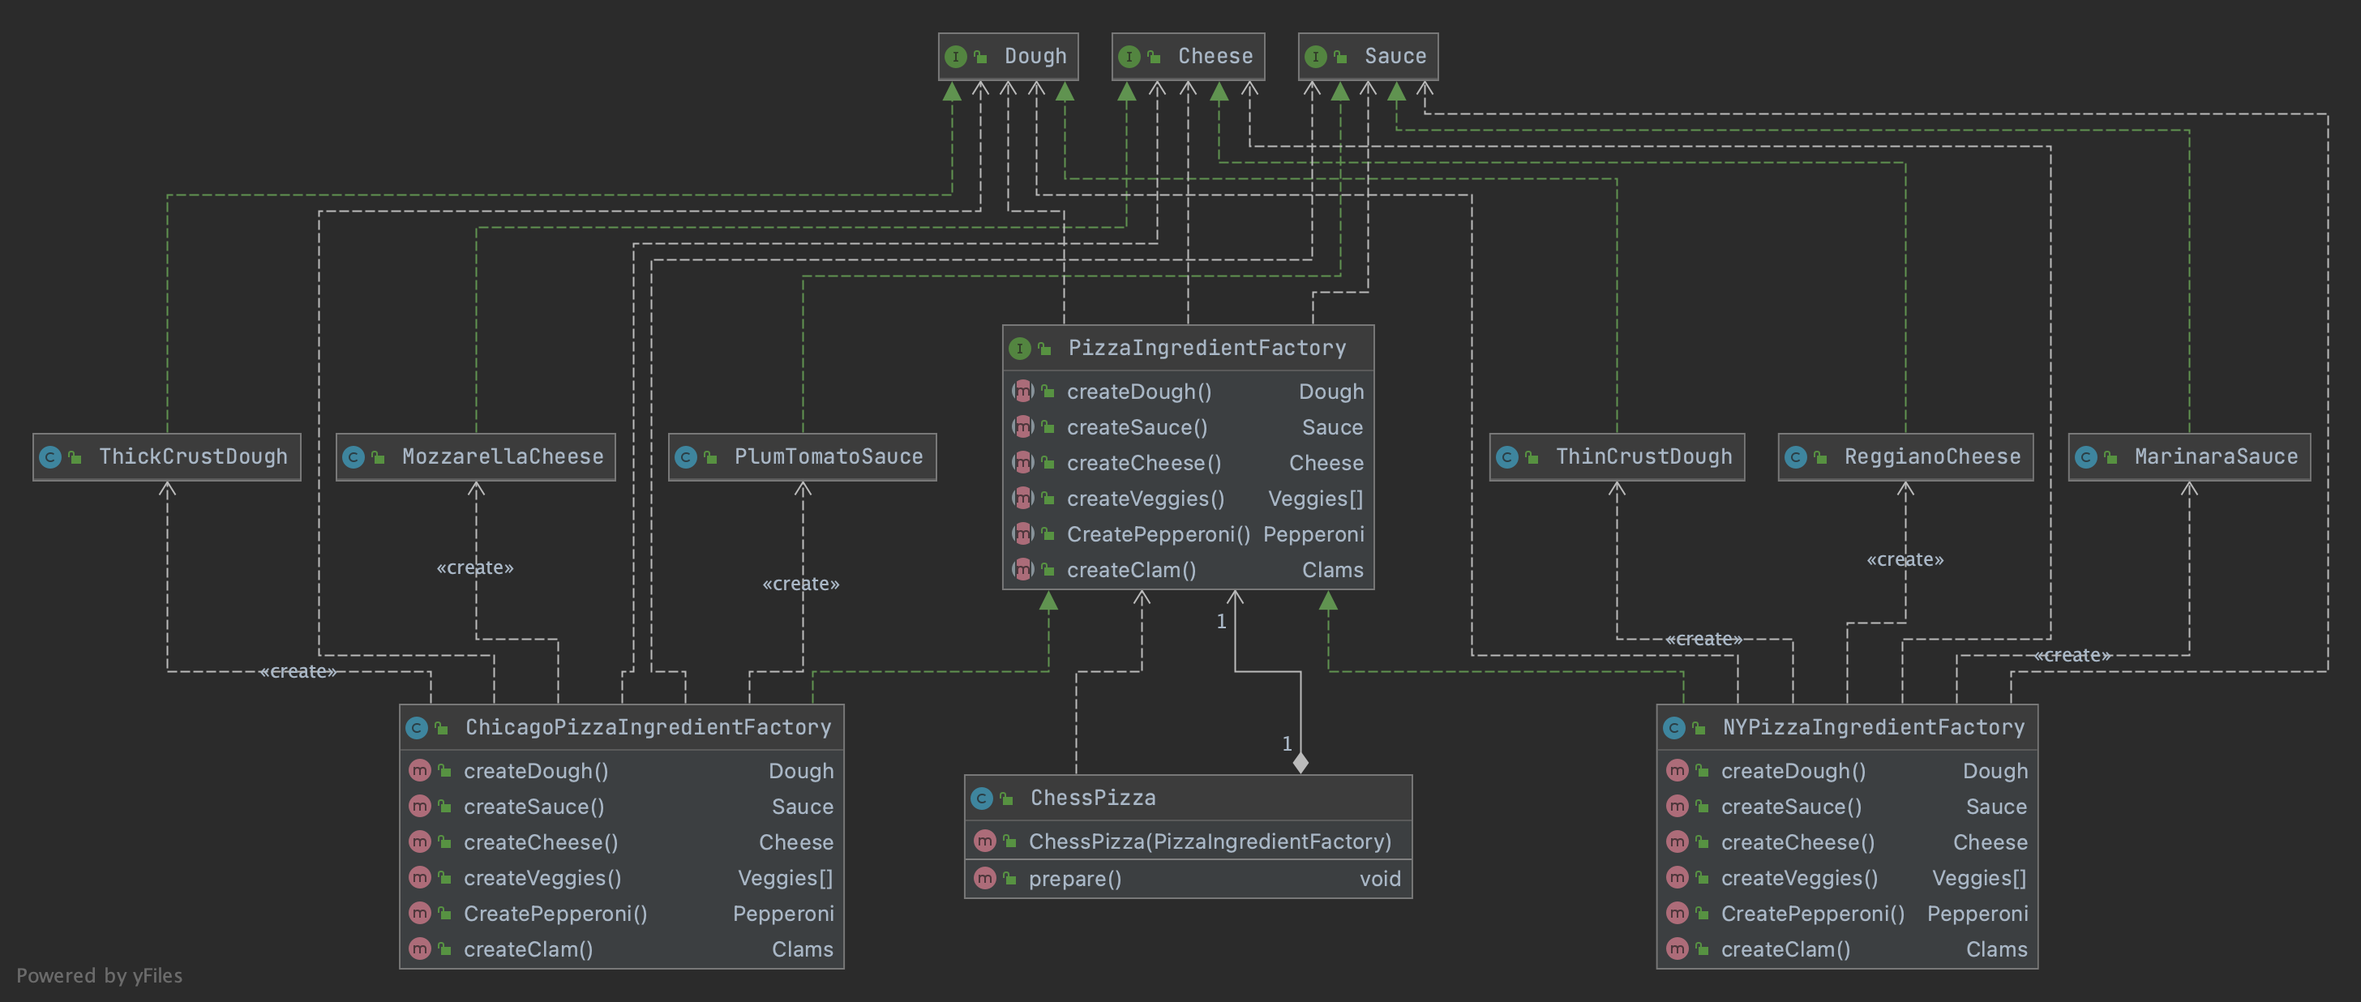
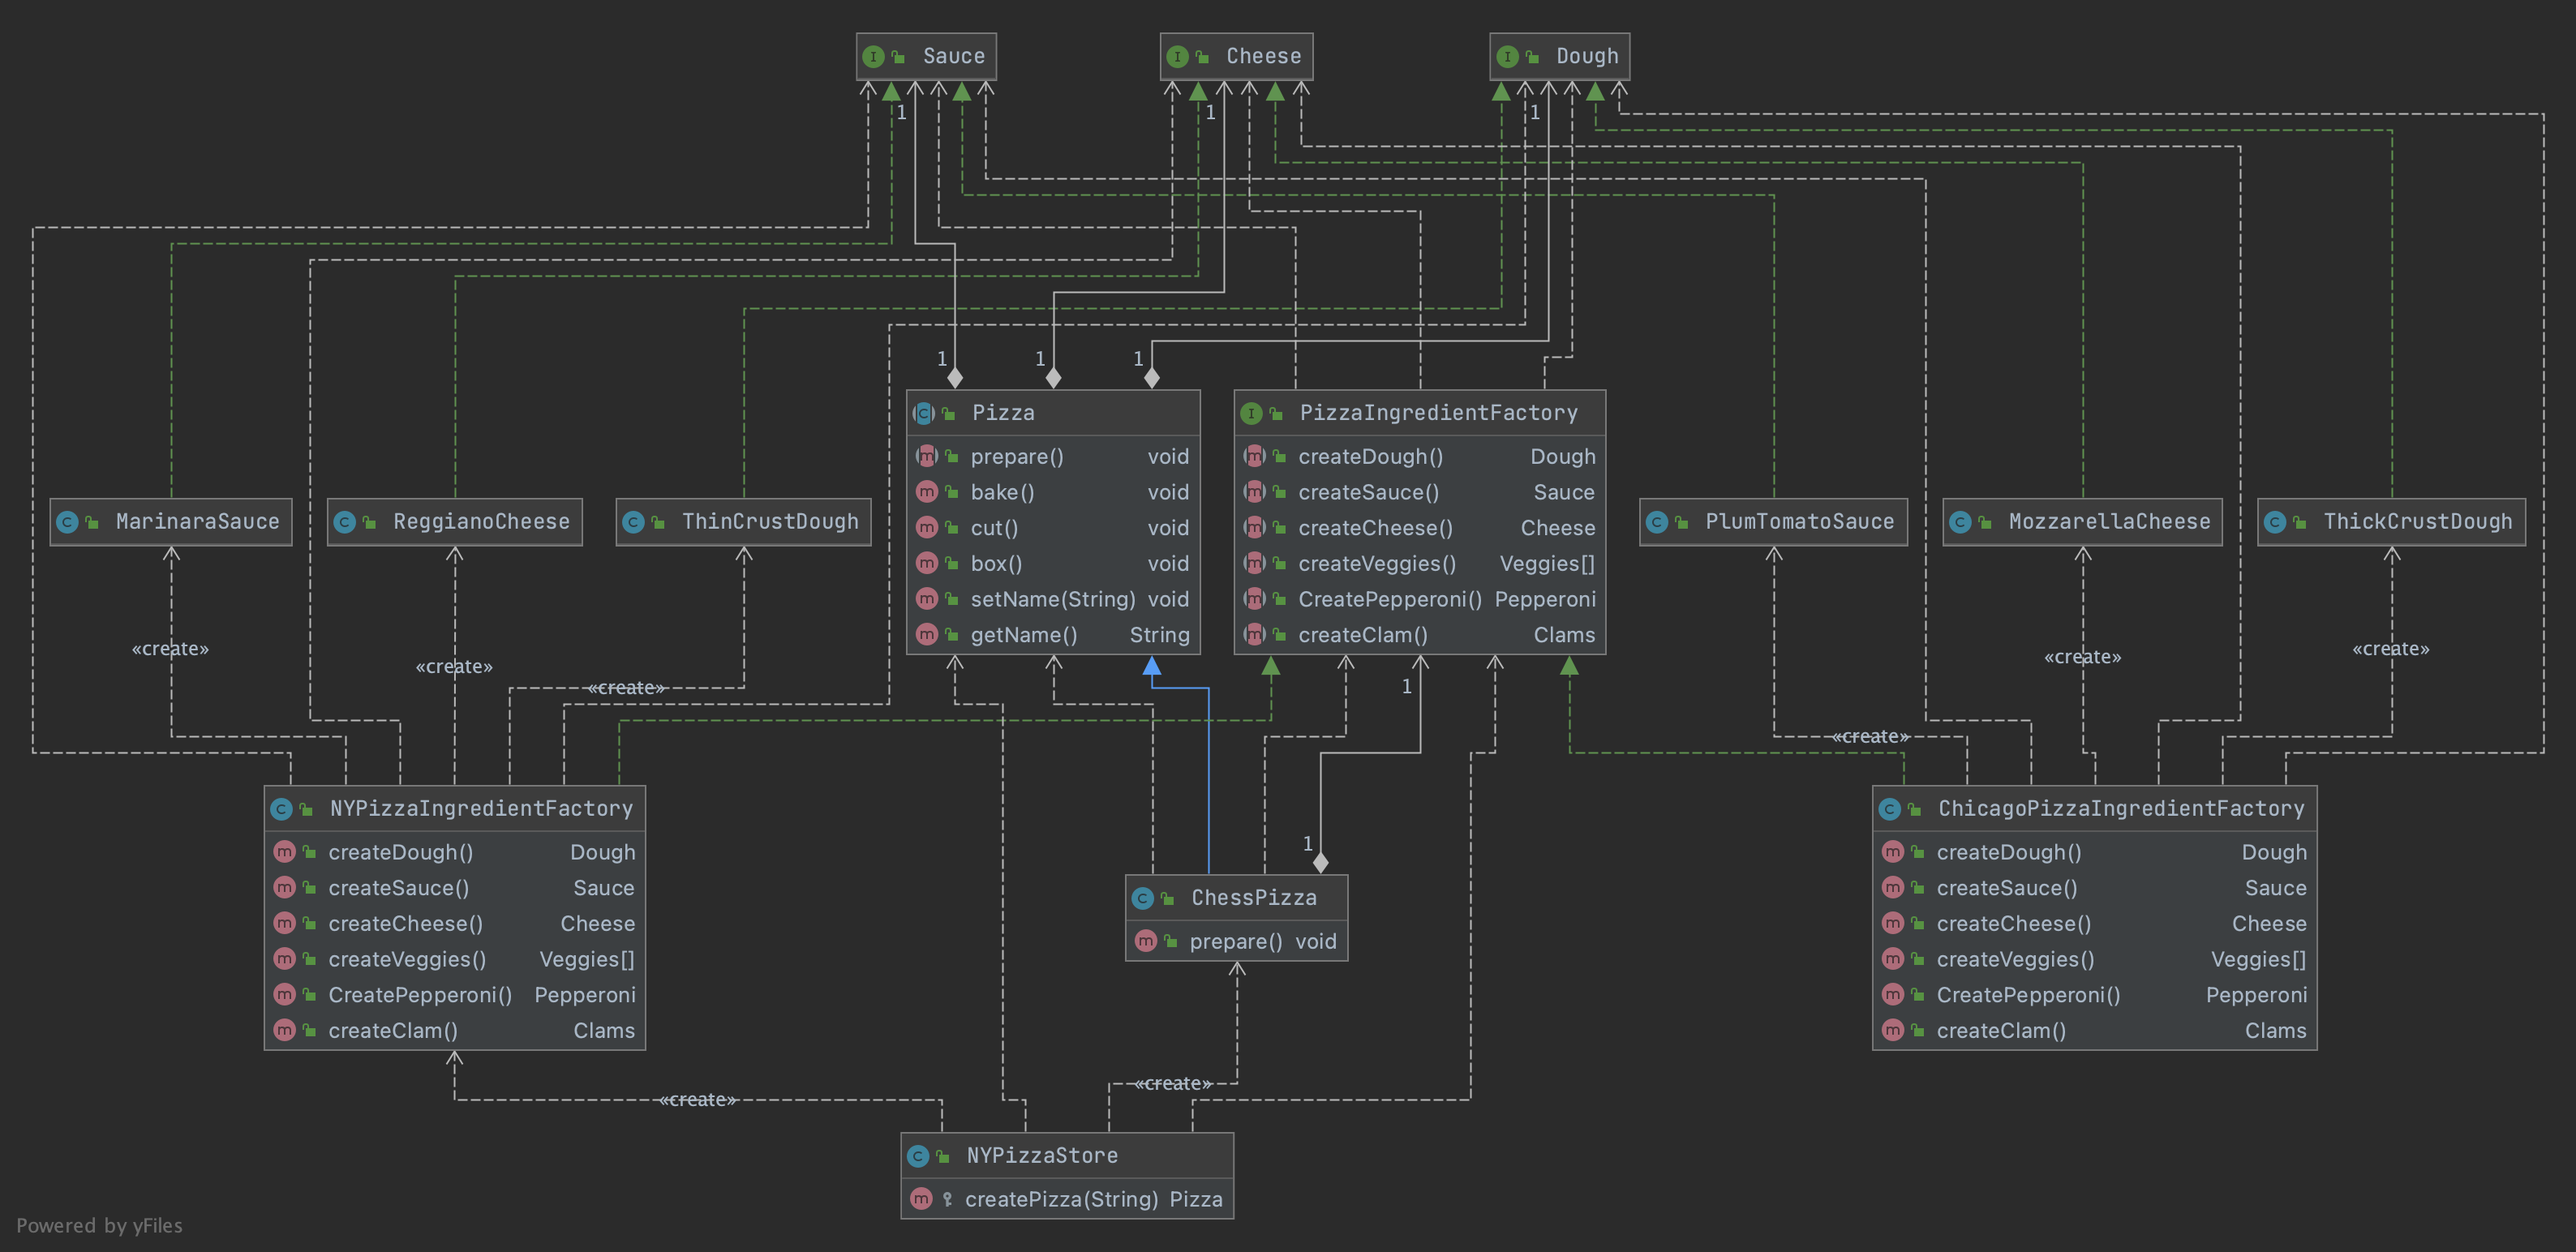
docs - ReadMe정리

diff --git a/online-learning/helloboot/src/test/java/tobyspring/study/ConfigurationTest.java b/online-learning/helloboot/src/test/java/tobyspring/study/ConfigurationTest.java
@@ -14,6 +14,7 @@ public class ConfigurationTest {
     Bean1 bean1 = myConfig.bean1();
     Bean2 bean2 = myConfig.bean2();
     Assertions.assertThat(bean1.common).isNotEqualTo(bean2.common);
+
   }
 
   @Test

diff --git a/online-learning/helloboot/[Section1] 스프링부트 살펴보기.md b/online-learning/helloboot/[Section1] 스프링부트 살펴보기.md
@@ -1,0 +1,160 @@
+# [Section1] 스프링부트 살펴보기
+
+## 스프링 부트 살펴보기
+
+### 스프링부트 소개
+
+스프링 부트(Spring Boot)는 **스프링을 기반**으로 실무 환경에 사용 가능한 수준의 **독립 실행형 애플리케이션**을 복잡한 고민없이 빠르게 작성할 수 있게 도와주는 여러가지 도구의 모음
+
+> 가장 큰 장점
+- 스프링으로 애플리케이션을 개발하지만 고민없이 빠르게 개발할 수 있게 해줌 → 결정을 다 해준 다는 것
+> 
+
+<aside>
+💡 **스프링 ≠ 스프링부트**
+부트가 스프링의 버전을 결정해 주지만 이 둘을 혼동하면 안된다.
+
+</aside>
+
+### 스프링 부트의 핵심 목표
+
+- 매우 빠르고 광범위한 영역의 스프링 개발 경험을 제공
+- 강한 주장을 가지고 즉시 적용 가능한 기술 조합을 제공하면서, 필요에 따라 원하는 방식으로 손쉽게 변형 가능
+    
+    > 빠르고 고민없이 개발할 수 있게 해준다의 다른 표현
+    부트가 구성방식을 제안하지만, 언제든 원한다면 다른 방식으로 바꿔서 사용가능
+    > 
+- 프로젝트에서 필요로 하는 다양한 비기능적인 기술(내장형 서버, 보안, 메트릭, 상태 체크, 외부 설정 방식 등) 제공
+- 코드 생성이나 XML설정을 필요로 하지 않음
+    
+    > 기존 Spring은 XML설정이 필수였음
+    > 
+
+### 스프링 부트의 역사
+
+2012년 스프링 프레임워크 프로젝트에 이슈로 등록된 “**Containerless 웹 개발 아키텍처의 지원 요청**”에서 논의와 개발 시작
+
+[https://github.com/spring-projects/spring-framework/issues/14521](https://github.com/spring-projects/spring-framework/issues/14521)
+
+- 이 이슈를 받아들여 framework를 만들기보다 boot라는 새로운 프로젝트로 개발 시작
+
+![스크린샷 2023-03-01 오후 3.51.17.png](%5BSection1%5D%20%E1%84%89%E1%85%B3%E1%84%91%E1%85%B3%E1%84%85%E1%85%B5%E1%86%BC%E1%84%87%E1%85%AE%E1%84%90%E1%85%B3%20%E1%84%89%E1%85%A1%E1%86%AF%E1%84%91%E1%85%A7%E1%84%87%E1%85%A9%E1%84%80%E1%85%B5%2058787a3dfd874d9e89582ea78060be33/%25E1%2584%2589%25E1%2585%25B3%25E1%2584%258F%25E1%2585%25B3%25E1%2584%2585%25E1%2585%25B5%25E1%2586%25AB%25E1%2584%2589%25E1%2585%25A3%25E1%2586%25BA_2023-03-01_%25E1%2584%258B%25E1%2585%25A9%25E1%2584%2592%25E1%2585%25AE_3.51.17.png)
+
+---
+
+### 컨테이너리스 개발
+
+“컨테이너 없는” 웹 어플리케이션 아키텍처란?
+
+- Serverless와 유사하다.
+- 그렇다면 Container가 무엇인가?
+    - WebContainer
+        
+        ![스크린샷 2023-03-01 오후 3.58.44.png](%5BSection1%5D%20%E1%84%89%E1%85%B3%E1%84%91%E1%85%B3%E1%84%85%E1%85%B5%E1%86%BC%E1%84%87%E1%85%AE%E1%84%90%E1%85%B3%20%E1%84%89%E1%85%A1%E1%86%AF%E1%84%91%E1%85%A7%E1%84%87%E1%85%A9%E1%84%80%E1%85%B5%2058787a3dfd874d9e89582ea78060be33/%25E1%2584%2589%25E1%2585%25B3%25E1%2584%258F%25E1%2585%25B3%25E1%2584%2585%25E1%2585%25B5%25E1%2586%25AB%25E1%2584%2589%25E1%2585%25A3%25E1%2586%25BA_2023-03-01_%25E1%2584%258B%25E1%2585%25A9%25E1%2584%2592%25E1%2585%25AE_3.58.44.png)
+        
+        - 웹컴포넌트를 관리 (웹컴포넌트를 메모리에 올리고 동작하도록 life cycle관리)
+            - 하나가 아닌 여러 개의 웹컴포넌트들을 관리한다.
+        - 요청이 들어오면 알맞은 컴포넌트에게 요청을 넘겨준다.
+            - 웹컴포넌트를 선택하는 작업 : 라우팅, 매핑(handler mapping)
+- 이를 자바용어로 바꿔보자
+    
+    ![스크린샷 2023-03-01 오후 5.24.18.png](%5BSection1%5D%20%E1%84%89%E1%85%B3%E1%84%91%E1%85%B3%E1%84%85%E1%85%B5%E1%86%BC%E1%84%87%E1%85%AE%E1%84%90%E1%85%B3%20%E1%84%89%E1%85%A1%E1%86%AF%E1%84%91%E1%85%A7%E1%84%87%E1%85%A9%E1%84%80%E1%85%B5%2058787a3dfd874d9e89582ea78060be33/%25E1%2584%2589%25E1%2585%25B3%25E1%2584%258F%25E1%2585%25B3%25E1%2584%2585%25E1%2585%25B5%25E1%2586%25AB%25E1%2584%2589%25E1%2585%25A3%25E1%2586%25BA_2023-03-01_%25E1%2584%258B%25E1%2585%25A9%25E1%2584%2592%25E1%2585%25AE_5.24.18.png)
+    
+    - 유명한 Servlet Container : 톰캣
+    - 서블릿들을 여러개띄워놓고 mapping정보를 넣으면 요청에 따라 특정 서블릿이 요청을 처리하고 응답을 생성하여 돌려주는 서블릿 컨테이너가 존재한다.
+- 하지만 너무 제한적이다. 좀더 나은방법으로 개발을 하고싶다 → **스프링프레임워크**
+    
+    ![스크린샷 2023-03-01 오후 5.30.45.png](%5BSection1%5D%20%E1%84%89%E1%85%B3%E1%84%91%E1%85%B3%E1%84%85%E1%85%B5%E1%86%BC%E1%84%87%E1%85%AE%E1%84%90%E1%85%B3%20%E1%84%89%E1%85%A1%E1%86%AF%E1%84%91%E1%85%A7%E1%84%87%E1%85%A9%E1%84%80%E1%85%B5%2058787a3dfd874d9e89582ea78060be33/%25E1%2584%2589%25E1%2585%25B3%25E1%2584%258F%25E1%2585%25B3%25E1%2584%2585%25E1%2585%25B5%25E1%2586%25AB%25E1%2584%2589%25E1%2585%25A3%25E1%2586%25BA_2023-03-01_%25E1%2584%258B%25E1%2585%25A9%25E1%2584%2592%25E1%2585%25AE_5.30.45.png)
+    
+    - 스프링도 컨테이너다. Spring Container는 Servlet Container 뒤에존재한다.
+    - 어떤 기능을 담당하는 컴포넌트 = Java Bean
+    - 서블릿을 통해 들어온 요청을 Bean들에게 넘기고 동작함
+    - 하지만 스프링어플리케이션 개발에만 집중을 하면 좋을텐데, 동작을 시키려면 **서블릿 컨테이너**를 무조건 띄워야함.
+        - 서블릿 컨테이너는 오래된 기술이며 다양한 설정 및 배포 방법 학습을 요구함
+            
+            > 서블릿 컨테이너설치, WAR 폴더구조, web.xml, WAR빌드, 컨테이너로 배치, 포트 설정, 클래스로더, 로깅 등..
+            > 
+        - 개발 외에 신경써야 할 부분이 너무 많다.
+        - 또한 서블릿 컨테이너는 표준 스펙이고 그거를 구현한 제품을 가져다 써야하기 때문에
+            - 만약 톰캣에서 다른걸로 바꾼다? 하면 그에 대한 러닝커브가 너무 큼.
+- 그래서 서블릿컨테이너가 없는 컨테이너리스 웹아키텍처를 만들었으면 좋겠다. → **스프링부트**
+    - 서블릿컨테이너라는게 웹 어플리케이션에 필요 하지만, 이거를 설치하고 관리하는 데에 개발자가 시간을 들이고 지식을 학습하고 적용하는 수고를 제거함.
+        
+        ![스크린샷 2023-03-01 오후 5.36.01.png](%5BSection1%5D%20%E1%84%89%E1%85%B3%E1%84%91%E1%85%B3%E1%84%85%E1%85%B5%E1%86%BC%E1%84%87%E1%85%AE%E1%84%90%E1%85%B3%20%E1%84%89%E1%85%A1%E1%86%AF%E1%84%91%E1%85%A7%E1%84%87%E1%85%A9%E1%84%80%E1%85%B5%2058787a3dfd874d9e89582ea78060be33/%25E1%2584%2589%25E1%2585%25B3%25E1%2584%258F%25E1%2585%25B3%25E1%2584%2585%25E1%2585%25B5%25E1%2586%25AB%25E1%2584%2589%25E1%2585%25A3%25E1%2586%25BA_2023-03-01_%25E1%2584%258B%25E1%2585%25A9%25E1%2584%2592%25E1%2585%25AE_5.36.01.png)
+        
+    - 나중에 필요하면 서블릿컨테이너를 커스터마이징 할 수 있음.
+        - 하지만 일단 몰라도됨.
+        - 스프링컨테이너만 안다면 웹 환경에서 동작하는 스프링 웹어플리케이션을 만들 수 있다.
+    - 스프링부트 이용 시 main메서드만 실행해주면 알아서 전부 실행됨. → **독립실행형**(standalone)
+
+---
+
+### Opinionated
+
+> 내가 다 정해줄게 일단 개발만 해
+> 
+
+**스프링 프레임워크의 설계철학**
+
+- 극단적인 **유연함** 추구
+- 다양한 관점을 수용
+- Not opinionated
+- 수많은 선택지를 다 포용
+
+→ 주장을 강하게 고집하지 않아. 모든 선택지를 포용할게.
+
+> 하지만 개발자가 직접 선택하고 적용하고 따져보는데 시간이 오래걸림.
+> 
+
+**스프링부트의 설계 철학**
+
+- Opinionated - 자기 주장이 강한, 자기 의견을 고집하는, 독선적인
+- 일단 정해주는 대로 **빠르게 개발**하고 고민은 나중에
+- 스프링을 잘 활용하는 뛰어난 방법을 제공 (Best Practice)
+
+**사용 기술과 의존 라이브러리 결정**
+
+- 업계에서 검증된 스프링 생태계 프로젝트, 표준 자바 기술, 오픈소스 기술의 종류와 의존관계, 사용버전을 정해줌
+- 각 기술을 스프링에 적용하는 방식(DI 구성)과 디폴트 설정값 제공
+    - 기술에 대한 고민을 하지 않아도 됨
+
+**유연한 확장**
+
+- 스프링 부트에 내장된 디폴트 구성을 커스터마이징하는 매우 자연스럽고 유연한 방법 제공
+- 스프링 부트가 스프링을 사용하는 방식을 이해한다면 언제라도 스프링부트를 제거하고 원하는 방식으로 재구성 가능
+- 스프링 부트처럼 기술과 구성을 간편하게 제공하는 나만의 스프링 부트 모듈도 작성 가능
+
+---
+
+### 스프링부트의 이해
+
+**스프링부트를 이용한 개발 방법**
+
+- 부트가 결정한 기술과 수정, 디폴트 설정을 수용
+- 외부설정 파일을 이용한 설정 변경 방법을 활용
+- 아주 빠르게 개발을 시작할 수 있다
+- 하지만…
+
+**스프링 부트를 이용한 개발의 오해와 한계**
+
+- 애플리케이션 기능 코드만 잘 작성하면 된다.
+    - 처음에는 맞을 수도있지만 아니다.
+- 스프링을 몰라도 개발을 잘 할 수있다.
+- 스프링부트가 직접적으로 보여주지 않는 것은 몰라도된다
+- 뭔가 기술적인 필요가 생기면 검색을 해서 해결한다.
+
+**스프링 부트를 이해하게 되면?**
+
+- 스프링 부트가 스프링의 기술을 어떻게 활용하는지 배우고 응용할 수 있다.
+- 스프링 부트가 선택한 기술, 자동으로 만들어주는 구성, 디폴트 설정이 어떤 것인지 확인할 수 있다.
+- 필요할 때 부트의 기본 구성을 수정하거나, 확장할 수 있다.
+- 나만의 **스프링 부트 모듈**을 만들어 활용할 수 있다.
+
+**강의의 목표**
+
+- 스프링 부트로 만든 스프링 애플리케이션의 기술과 구성 정보를 직접 확인할 수 있다.
+- 적용 가능한 설정 항목을 파악할 수 있다
+- 직접 만든 빈 구성 정보를 활용하고 그에 따른 변화를 분석할 수 있다.
+- 스프링 부트의 기술을 꼼꼼히 살펴볼 수 있다.
+
+![스크린샷 2023-03-01 오후 6.02.08.png](%5BSection1%5D%20%E1%84%89%E1%85%B3%E1%84%91%E1%85%B3%E1%84%85%E1%85%B5%E1%86%BC%E1%84%87%E1%85%AE%E1%84%90%E1%85%B3%20%E1%84%89%E1%85%A1%E1%86%AF%E1%84%91%E1%85%A7%E1%84%87%E1%85%A9%E1%84%80%E1%85%B5%2058787a3dfd874d9e89582ea78060be33/%25E1%2584%2589%25E1%2585%25B3%25E1%2584%258F%25E1%2585%25B3%25E1%2584%2585%25E1%2585%25B5%25E1%2586%25AB%25E1%2584%2589%25E1%2585%25A3%25E1%2586%25BA_2023-03-01_%25E1%2584%258B%25E1%2585%25A9%25E1%2584%2592%25E1%2585%25AE_6.02.08.png)

diff --git a/blog/src/main/java/designpattern/factorypattern/README.md b/blog/src/main/java/designpattern/factorypattern/README.md
@@ -169,10 +169,19 @@ Pizza pizza = pizzaStore.orderPizza("cheese");
 <img src="abstractfactorypattern/abstract-factory-pattern.png" width="100%">
 
 > - Abstract Factory: Concrete Factory의 인터페이스. (`PizzaIngredientFactory`) 
-> - Concrete Factory: 특정 종류의 제품을 생성하기 위해 Abstract Factory 인터페이스를 구현한다. (`NYPizzaIngredientFactory`)
-> - Abstract Product: Abstract Factory가 생성하는 제품이 구현하고 있는 인터페이스. (`Dough`, `Sauce` 등)
-> - Concrete Product: 팩토리가 실제로 생성하는 제품. (`ThinCrustDough`, `MarinaraSauce` 등)
-> - Client: 인터페이스만을 이용해서 제품을 생산한다. (`CheesPizza`)
+> - Concrete Factory: 특정 종류의 제품을 생성하기 위해 Abstract Factory 인터페이스를 구현한다. (`NYPizzaIngredientFactory`,`ChicagoPizzaIngredientFactory`)
+> - Abstract Product: Abstract Factory가 생성하는 제품이 구현하고 있는 인터페이스. (`Pizza`)
+> - Concrete Product: 팩토리가 실제로 생성하는 제품. (`ChessPizza`)
+> - Client: 인터페이스만을 이용해서 제품을 생산한다. (`NYPizzaStore`)
+
+#### 주의할점
+- 하지만 딱딱하게 생각하지 말 것.
+  - ConcreteFactory가 AbstractFactory의 역할도 맡도록 구현하는 경우도 있다.
+  - Factory 이면서 동시에 Product인 경우도 있다.
+  - Factory를 Product에 주입하지 않고 Factory가 Product를 생산하는 경우도 있다.
+- 제품 생산의 책임은 ConcreteFactory에 있다.
+- 프로덕트 생성자에 팩토리를 주입하는 방식도 고려할 것.
+- ConcreteFactory를 싱글톤으로 만들어 사용하는 것을 고려할 것.
 
 <img src="abstractfactorypattern/Package%20abstractfactorypattern.png" width="100%">
 
@@ -273,3 +282,17 @@ public class NYPizzaIngredientFactory implements PizzaIngredientFactory {
   ...
 }
 ```
+---
+### Factory Method Pattern vs Abstract Factory Pattern
+- 팩토리 메서드 패턴은 **클래스**를 써서 만들고 추상 팩토리 패턴은 **객체**를 써서 Product를 만든다.
+- 즉 팩토리 메서드 패턴은 **상속**으로 추상 팩토리 패턴은 **구성(Composition)**으로 만든다.
+- 팩토리 메서드 패턴 : 클래스를 확장하고 팩토리 메서드를 오버라이드 한다.
+  - 서브클래스에서 **제품**을 만들기 때문에, 클라이언트와 구상형식을 분리할 수 있다.
+  - 클라이언트는 자신이 사용할 추상 형식만 알면된다.
+  - 장점 : 복잡한 인터페이스, 복잡한 메서드가 필요없다.
+  - 단점 : 한가지 제품만 생산할 수 있다.
+- 추상 팩토리 패턴 : **제품군**을 만드는 추상형식을 제공한다.
+  - 추상형식의 서브클래스에서 제품군을 생산하기 때문에, 추상 형식을 구성(Composition)으로 가지고 있는 클라이언트에게 서브클래스의 인스턴스를 만들어서 전달하면된다.
+  - 서브클래스에서 제품을 생산하는 메서드를 팩토리 메서드 패턴으로 구현할 때도 종종 있다.
+  - 장점 : 연관된 제품을 하나로 묶을 수 있다.
+  - 단점 : 제품군에 제품이 추가된다면, 인터페이스를 바꿔야한다.
